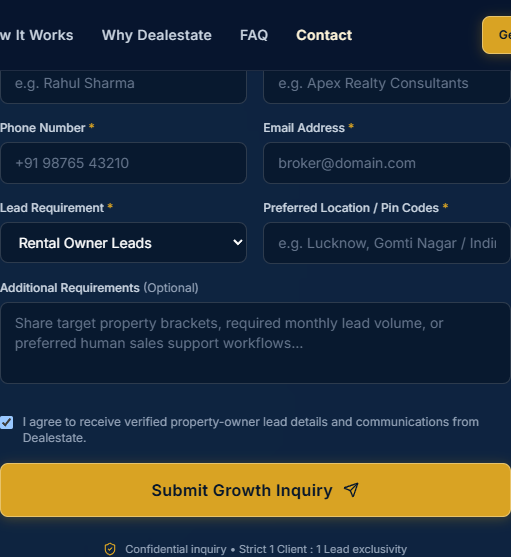
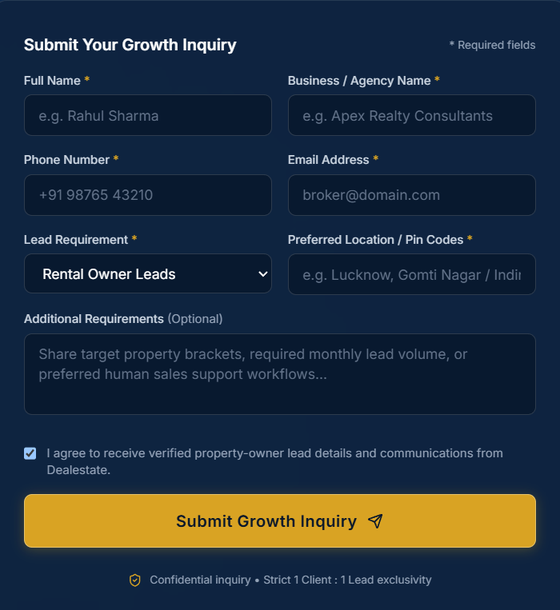
docs: refresh README with current website screenshots and content

diff --git a/README.md b/README.md
@@ -17,7 +17,7 @@
 [![Lighthouse SEO](https://img.shields.io/badge/Lighthouse_SEO-100%2F100-success?style=flat-square&logo=googlechrome&logoColor=white)](qa-reports/PRODUCTION_READINESS_REPORT.md)
 [![License](https://img.shields.io/badge/License-Proprietary-red?style=flat-square)](#-license)
 
-[Project Overview](#-project-overview) • [Website Preview](#-website-preview) • [Complete Screenshots](#-complete-website-screenshots) • [Responsive Showcase](#-responsive-design-showcase) • [Architecture](#-project-architecture) • [Getting Started](#-installation--setup) • [Contact](#-official-contact--business-details)
+[Project Overview](#-project-overview) • [Desktop Preview](#-desktop-preview) • [Mobile Preview](#-mobile-preview) • [Section Screenshots](#-complete-website-screenshots) • [Responsive Showcase](#-responsive-showcase) • [Interactions](#-interactive-states) • [Architecture](#-project-architecture) • [Getting Started](#-installation--setup) • [Contact](#-official-contact--business-details)
 
 </div>
 
@@ -25,134 +25,206 @@
 
 ## 📖 Project Overview
 
-**Dealestate** is a premium, technology-enabled real estate growth system engineered for Indian property brokers, independent consultants, and multi-agent agencies. Operating under the umbrella of **Codnexa**, Dealestate solves the fundamental failure of conventional property portals: noise, duplicate broker listings, lack of human follow-up, and shared leads auctioned to multiple competitors at once.
+**Dealestate** is an enterprise-grade real estate growth system engineered specifically for Indian property brokers, independent real-estate consultants, and multi-agent commercial firms. Operating under the umbrella of **Codnexa**, Dealestate eliminates the chronic pitfalls of traditional property portals: noise, duplicate broker spam, lack of follow-up bandwidth, and shared leads auctioned to 10+ brokers simultaneously.
 
-### Core Value Proposition
+### The Problem in Indian Real Estate
+Traditional portals operate on a volume-first listing aggregation model. Brokers spend high monthly subscription fees only to receive recycled leads that have already been telephoned by dozens of competing agencies, resulting in hostile property owners, burned relationships, and wasted operational hours.
 
-Unlike generic lead generation platforms that sell raw portal scrapes to 10+ brokers simultaneously, Dealestate combines **algorithmic AI screening** with a **dedicated human operations layer**:
+### The Dealestate Solution
+Dealestate pairs **algorithmic AI screening** with a **dedicated human operations layer**:
 
-1. **Strict 1 Client : 1 Lead Exclusivity**: Leads are locked strictly to a single broker within their target micro-market and pin codes. Zero shared leads.
-2. **Dedicated Human Sales Specialist Layer**: Trained real estate callers telephone prospective property owners directly to verify intent, confirm listing parameters, and qualify motivation before dispatch.
-3. **AI-Assisted Listing Screening**: Machine-learning heuristics detect duplicate phone numbers, suppress broker reposts, and cross-reference public property feeds in real time.
-4. **Multi-Stream Focus**: High-intent property-owner opportunities across **Residential Rental**, **Residential Resale**, and **Commercial** sectors.
+1. **Strict 1 Client : 1 Lead Exclusivity**: Every verified property-owner lead is allocated strictly to a single broker within their target pin code or micro-market. Zero shared leads.
+2. **Dedicated Human Sales Specialist Layer**: Trained real estate tele-calling specialists directly contact property owners to verify ownership documentation, confirm commercial parameters, qualify seller motivation, and secure scheduled visit slots.
+3. **AI-Assisted Listing Screening**: Automated heuristics parse public listings, eliminate duplicate contact numbers, detect broker reposts, and cross-reference tax and municipal databases in real time.
+4. **Three Dedicated Owner Categories**: High-intent property-owner acquisition channels across **Residential Rental**, **Residential Resale**, and **Commercial Property** sectors.
 
 ---
 
-## 🖥 Website Preview
+## 🖥 Desktop Preview
 
 ![Dealestate Desktop Homepage](docs/screenshots/desktop/homepage.png)
 
-*The Dealestate homepage featuring the luminous Mumbai sunset skyline, strategic value proposition, and the interactive Lead Allocation & Screening Desk mockup.*
+*The complete Dealestate desktop homepage featuring the luminous Mumbai skyline hero, single-line Commercial Owner badge, interactive Lead Allocation & Screening Desk, and high-contrast design system.*
+
+---
+
+## 📱 Mobile Preview
+
+<div align="center">
+  <img src="docs/screenshots/mobile/homepage.png" alt="Dealestate Mobile Homepage" width="390" />
+</div>
+
+*Full mobile experience (390px viewport) verified with zero horizontal overflow, fluid responsive typography, and mobile-first touch ergonomics.*
 
 ---
 
 ## 📸 Complete Website Screenshots
 
-The repository contains real, browser-rendered screenshots for all 13 production sections of the Dealestate website:
+Every screenshot below is freshly captured from the live rendered website at standard desktop viewport (`1440 × 900`):
 
-### 1. Sticky Navigation Bar & Header
-![Sticky Navigation Bar](docs/screenshots/desktop/navbar.png)
-*Sticky header with a `#07152E` backdrop-blur finish, official Dealestate WebP logo, active section highlighting, and primary CTA.*
+### 1. Sticky Navigation Header
+![Sticky Navigation Header](docs/screenshots/desktop/navbar.png)
+*High-contrast header with `#08172B` backdrop blur, crisp vector logo, active section tracking, and primary lead allocation CTA.*
 
 ### 2. Homepage Hero Section
-![Homepage Hero Section](docs/screenshots/desktop/homepage.png)
-*High-contrast hero section with responsive Mumbai skyline background, brand positioning, and one-click lead inquiry actions.*
+![Homepage Hero Section](docs/screenshots/desktop/hero.png)
+*Hero section with Mumbai skyline photography, strategic value proposition, primary action buttons, and live pipeline status.*
 
-### 3. Lead Allocation & Screening Desk Mockup
+### 3. Lead Allocation & Screening Desk
 ![Lead Allocation & Screening Desk](docs/screenshots/desktop/lead-allocation-desk.png)
-*Static UI simulation showing verified Rental, Resale, and Commercial lead cards with 1:1 exclusivity pills and real-time verification tags.*
+*High-contrast operational desk preview highlighting live pipeline verification, Rental Owner, Resale Owner, and single-line Commercial Owner badges with 1:1 exclusivity pills.*
 
 ### 4. Verified Owner Leads Section
 ![Verified Owner Leads Section](docs/screenshots/desktop/owner-leads.png)
-*Three distinct category cards detailing Rental, Resale, and Commercial owner acquisition criteria on a warm ivory surface.*
+*Three comprehensive acquisition tiers: Residential Rental, Residential Resale, and Commercial Owner leads on a warm ivory surface.*
 
 ### 5. Dedicated Human Sales Support Section
 ![Dedicated Human Sales Support Section](docs/screenshots/desktop/human-support.png)
-*Deep navy high-impact section showcasing Dealestate's core differentiator: trained human callers managing qualification and scheduling.*
+*Deep navy high-impact section showcasing Dealestate's core differentiator: trained tele-calling professionals who handle qualifying calls and site-visit scheduling.*
 
-### 6. Complete Growth Solutions Section
-![Complete Growth Solutions Section](docs/screenshots/desktop/solutions.png)
-*Seven specialized business solutions featuring a harmonized color rhythm: Warm Ivory hero card, Deep Navy differentiator card, and Soft Blue CRM.*
+### 6. Growth Solutions Section
+![Growth Solutions Section](docs/screenshots/desktop/solutions.png)
+*Seven specialized business solutions featuring a balanced color rhythm across Warm Ivory, Deep Navy, and Soft Blue surfaces with antique gold accents.*
 
-### 7. How It Works (7-Stage Process Pipeline) Section
+### 7. How It Works (7-Stage Workflow Pipeline)
 ![How It Works Section](docs/screenshots/desktop/how-it-works.png)
-*Continuous 7-stage workflow (`Source ➔ Filter ➔ Screen ➔ Review ➔ Allocate ➔ Deliver ➔ Track`) with dedicated pipeline track and stage indicators.*
+*Continuous 7-stage operational workflow (`Source ➔ Filter ➔ Screen ➔ Review ➔ Allocate ➔ Deliver ➔ Track`) with dedicated pipeline track and numbered milestones.*
 
-### 8. Who We Serve (Target Audience) Section
+### 8. Who We Serve (Client Profiles)
 ![Who We Serve Section](docs/screenshots/desktop/who-we-serve.png)
 *Tailored operational models for Independent Luxury Brokers, Multi-Agent Brokerages, and Specialized Commercial Consultants.*
 
-### 9. Why Dealestate (Competitive Advantages) Section
+### 9. Why Dealestate (Market Differentiation)
 ![Why Dealestate Section](docs/screenshots/desktop/why-dealestate.png)
-*Side-by-side contrast between traditional noisy portals and Dealestate's exclusive 1:1 model with human-in-the-loop verification.*
+*Side-by-side comparison between traditional mass portals and Dealestate's exclusive 1:1 model with human-in-the-loop qualification.*
 
-### 10. Frequently Asked Questions (FAQ) Section
+### 10. Frequently Asked Questions (FAQ)
 ![FAQ Section](docs/screenshots/desktop/faq.png)
-*Ten accessible accordion items detailing pricing brackets, exclusivity locks, geographic rollouts, and replacement guidelines.*
+*Ten fully accessible accordion questions detailing pricing brackets, exclusivity locks, geographic rollouts, and replacement guidelines.*
 
-### 11. Contact & Locality Allocation Section
+### 11. Contact & Locality Allocation Hub
 ![Contact Section](docs/screenshots/desktop/contact.png)
-*Direct communication hub displaying official phone, WhatsApp, email, operating hours, and verified social channels.*
+*Direct communication hub displaying direct phone, WhatsApp channel, email desk, operating hours, and verified social channels.*
 
 ### 12. Growth Inquiry Form
 ![Growth Inquiry Form](docs/screenshots/desktop/contact-form.png)
-*Live lead booking form with client-side validation, loading indicators, FormSubmit endpoint integration, and instant WhatsApp/phone fallback.*
+*Live lead reservation form with real-time validation, FormSubmit AJAX endpoint, loading indicators, and fallback action pills.*
 
 ### 13. Site Footer
 ![Site Footer](docs/screenshots/desktop/footer.png)
-*Comprehensive footer with Codnexa attribution, navigation sitemap links, legal copyright notices, and back-to-top trigger.*
+*Footer with Codnexa attribution, sitemap navigation links, legal copyright notices, and back-to-top trigger.*
 
 ---
 
-## 📱 Responsive Design Showcase
+## 💻 Laptop Showcase (1280px)
 
-The Dealestate website was tested across **14 distinct viewport resolutions** and verified to have **0px horizontal overflow** at all screen sizes.
+Captured at standard laptop viewport (`1280 × 800`):
 
-### Viewport Comparison
+| Homepage | Hero Section |
+|:---:|:---:|
+| ![Laptop Homepage](docs/screenshots/laptop/homepage.png) | ![Laptop Hero](docs/screenshots/laptop/hero.png) |
+| *Full laptop viewport rendering* | *Luminous Mumbai skyline and CTAs* |
 
-| Resolution | Device Class | Full Page Preview |
+| Solutions Grid | How It Works Pipeline | Contact Section |
 |:---:|:---:|:---:|
-| **1440 × 900** | Desktop Standard | [View Desktop Full Screenshot](docs/screenshots/responsive/desktop-1440.png) |
-| **1280 × 800** | Laptop Standard | [View Laptop Full Screenshot](docs/screenshots/responsive/laptop-1280.png) |
-| **768 × 1024** | Tablet Portrait | [View Tablet Full Screenshot](docs/screenshots/responsive/tablet-768.png) |
-| **390 × 844** | Mobile Standard (iPhone) | [View Mobile Full Screenshot](docs/screenshots/responsive/mobile-390.png) |
-| **360 × 800** | Mobile Compact (Android) | [View Mobile Compact Screenshot](docs/screenshots/responsive/mobile-360.png) |
+| ![Laptop Solutions](docs/screenshots/laptop/solutions.png) | ![Laptop How It Works](docs/screenshots/laptop/how-it-works.png) | ![Laptop Contact](docs/screenshots/laptop/contact.png) |
+| *Multi-column card layout* | *7-stage operational workflow* | *Lead allocation desk form* |
 
-### Mobile-Optimized User Experience
+---
 
-| Mobile Navigation Drawer | Mobile Owner Leads | Mobile How It Works |
+## 📱 Tablet Showcase (768px)
+
+Captured at standard tablet portrait viewport (`768 × 1024`):
+
+| Tablet Navigation State | Tablet Hero Section | Tablet Owner Leads |
 |:---:|:---:|:---:|
-| ![Mobile Navigation](docs/screenshots/mobile/navigation.png) | ![Mobile Leads](docs/screenshots/mobile/owner-leads.png) | ![Mobile Process](docs/screenshots/mobile/how-it-works.png) |
-| *Slide-over menu with touch targets $\ge 44\text{px}$* | *Fluid stacked cards optimized for vertical scroll* | *Streamlined 7-stage vertical process rail* |
+| ![Tablet Navigation](docs/screenshots/tablet/navigation.png) | ![Tablet Hero](docs/screenshots/tablet/hero.png) | ![Tablet Owner Leads](docs/screenshots/tablet/owner-leads.png) |
+| *Slide-out menu with high contrast* | *Centered headline and pipeline desk* | *Vertically stacked category cards* |
 
-| Mobile Solutions Grid | Mobile Contact & Form | Mobile Footer |
+| Tablet Solutions | Tablet How It Works | Tablet Contact Form |
 |:---:|:---:|:---:|
-| ![Mobile Solutions](docs/screenshots/mobile/solutions.png) | ![Mobile Contact](docs/screenshots/mobile/contact.png) | ![Mobile Footer](docs/screenshots/mobile/footer.png) |
-| *Adaptive single-column cards with gold accents* | *Full-width inputs with high-contrast text* | *Stacked legal and navigation links* |
+| ![Tablet Solutions](docs/screenshots/tablet/solutions.png) | ![Tablet How It Works](docs/screenshots/tablet/how-it-works.png) | ![Tablet Contact Form](docs/screenshots/tablet/contact-form.png) |
+| *Two-column adaptive cards* | *Sequential 7-stage workflow rail* | *Full-width inquiry reservation card* |
 
-### Interactive States
+---
 
-| FAQ Accordion Expanded | Mobile Drawer Open | Validation Error States |
+## 📲 Mobile Showcase (390px, 375px, 360px)
+
+The mobile experience was rigorously tested across common Indian smartphone widths. All touch targets meet or exceed $\ge 44\text{px}$, with zero horizontal overflow:
+
+### Mobile Navigation Drawer (Contrast Verified)
+
+| Mobile Sidebar CLOSED | Mobile Sidebar OPEN |
+|:---:|:---:|
+| ![Mobile Sidebar Closed](docs/screenshots/mobile/sidebar-closed.png) | ![Mobile Sidebar Open](docs/screenshots/mobile/sidebar-open.png) |
+| *Clean navbar with hamburger toggle* | *Deep Navy `#08172B` surface, Warm Ivory text, and Gold indicators* |
+
+> [!NOTE]
+> **Mobile Sidebar Contrast Enhancement**: The mobile slide-over navigation drawer utilizes high-contrast `#F7F3EA` typography, `#D9A323` indicator chevrons, and a high-visibility close button, ensuring perfect readability in both outdoor and low-light environments.
+
+### Core Mobile Sections
+
+| Mobile Hero & Desk | Mobile Owner Leads | Mobile Human Support |
 |:---:|:---:|:---:|
-| ![FAQ Expanded](docs/screenshots/interactions/faq-open.png) | ![Menu Open](docs/screenshots/interactions/mobile-menu-open.png) | ![Form Validation](docs/screenshots/interactions/form-validation.png) |
-| *Smooth CSS transition with `aria-expanded` toggle* | *Full backdrop blur with trap-focus behavior* | *Real-time inline errors on missing fields* |
+| ![Mobile Hero](docs/screenshots/mobile/hero.png) | ![Mobile Owner Leads](docs/screenshots/mobile/owner-leads.png) | ![Mobile Human Support](docs/screenshots/mobile/human-support.png) |
+| *Compact headline & live desk* | *Single-column acquisition cards* | *Differentiator showcase* |
+
+| Mobile Solutions | Mobile How It Works | Mobile Who We Serve |
+|:---:|:---:|:---:|
+| ![Mobile Solutions](docs/screenshots/mobile/solutions.png) | ![Mobile How It Works](docs/screenshots/mobile/how-it-works.png) | ![Mobile Who We Serve](docs/screenshots/mobile/who-we-serve.png) |
+| *Harmonized ivory & blue cards* | *Vertical 7-stage process timeline* | *Client profile tiers* |
+
+| Mobile Why Dealestate | Mobile FAQ | Mobile Contact Form |
+|:---:|:---:|:---:|
+| ![Mobile Why Dealestate](docs/screenshots/mobile/why-dealestate.png) | ![Mobile FAQ](docs/screenshots/mobile/faq.png) | ![Mobile Contact Form](docs/screenshots/mobile/contact-form.png) |
+| *Portal comparison metrics* | *Tap-to-expand accordions* | *Native-feeling touch fields* |
+
+### Mobile Viewport Validation
+
+| iPhone SE / Standard (375px) | Compact Android (360px) |
+|:---:|:---:|
+| ![Mobile 375px](docs/screenshots/mobile/mobile-375px.png) | ![Mobile 360px](docs/screenshots/mobile/mobile-360.png) |
+| *Perfect responsive wrapping at 375px* | *Zero horizontal scroll at 360px* |
+
+---
+
+## 🎯 Interactive States
+
+Every interactive state is verified directly in the running browser:
+
+| FAQ Accordion Expanded | Form Validation Errors | Verified Form Submission |
+|:---:|:---:|:---:|
+| ![FAQ Expanded](docs/screenshots/interactions/faq-expanded.png) | ![Form Validation](docs/screenshots/interactions/form-validation.png) | ![Form Success](docs/screenshots/interactions/form-success.png) |
+| *Smooth CSS height transition with `aria-expanded`* | *Real-time inline validation on missing required inputs* | *Live FormSubmit AJAX submission confirmation* |
+
+| Custom Gold Cursor Hover | Mobile Slide-Out Menu |
+|:---:|:---:|
+| ![Custom Cursor](docs/screenshots/interactions/custom-cursor.png) | ![Mobile Menu Open](docs/screenshots/interactions/mobile-menu-open.png) |
+| *Antique-gold custom cursor with scale effect on interactive CTAs* | *Full viewport drawer with keyboard focus trap* |
 
 ---
 
 ## ⚡ Implemented Features
 
-- [x] **Strict 1:1 Exclusivity**: Zero shared leads — opportunities locked exclusively to a single broker account per micro-market.
-- [x] **Human Sales Specialist Layer**: Highlights trained tele-calling professionals who qualify seller intent.
-- [x] **AI-Powered Screening Desk**: Illustrative dashboard preview displaying real-time listing verification.
-- [x] **7-Stage Workflow Pipeline**: Visual step ribbon guiding brokers from initial sourcing to CRM feedback synchronization.
+- [x] **Strict 1:1 Exclusivity Architecture**: Zero shared leads — property-owner records are locked to a single broker account per micro-market and pin code.
+- [x] **Human Sales Specialist Layer**: Highlights trained tele-calling professionals who qualify seller intent, verify property documentation, and schedule meetings.
+- [x] **AI-Powered Screening Desk Mockup**: Illustrative dashboard preview displaying real-time listing verification and live pipeline metrics.
+- [x] **Single-Line Commercial Owner Badge**: Visual consistency across Rental, Resale, and Commercial cards with zero awkward text wrapping.
+- [x] **7-Stage Workflow Pipeline**: Visual milestone rail guiding brokers from initial sourcing to CRM feedback synchronization.
 - [x] **Multi-Category Owner Leads**: Dedicated cards for Rental, Resale, and Commercial acquisition channels.
 - [x] **Interactive FAQ Accordion**: Ten accessible FAQ items with single-expansion keyboard and touch accessibility.
-- [x] **Production Contact Form**:
-  - Client-side validation (Full Name, Business Name, Phone, Email, Location, Terms Consent).
-  - Dynamic loading state (`Submitting Inquiry...`).
-  - Active FormSubmit endpoint (`https://formsubmit.co/ajax/codnexa@gmail.com`).
-  - Fallback telephone (`tel:+916394623162`) and WhatsApp (`wa.me/916394623162`) action pills on error or activation notice.
-- [x] **Responsive Image System**: Picture elements with responsive media queries serving WebP images (`min-width: 768px` for desktop, `max-width: 767px` for mobile).
+- [x] **Antique-Gold Custom Cursor**:
+  - Custom dot and trailing circle styled in antique gold (`#D9A323`).
+  - Active hover scaling on links, buttons, inputs, and textareas.
+  - Automatic touch rejection (`pointerType === "touch"`).
+  - Energy-efficient stationary animation halting when pointer is idle.
+- [x] **Production Contact Form Experience**:
+  - Client-side validation (Full Name, Business Name, Phone, Email, Location, Consent).
+  - FormSubmit AJAX endpoint (`https://formsubmit.co/ajax/codnexa@gmail.com`).
+  - Genuine inline confirmation: *"Your enquiry has been submitted successfully! Our team will get back to you soon."*
+  - Duplicate submission prevention and reset triggers.
+  - Fallback telephone (`tel:+916394623162`) and WhatsApp (`wa.me/916394623162`) direct channels.
+- [x] **Official Brand Favicon**: Dealestate geometric logo symbol rendered on dark navy background across `favicon.ico` and `favicon.png`.
 - [x] **Comprehensive SEO Architecture**: Pre-configured JSON-LD structured data (Organization, WebSite, Service), `robots.txt`, `sitemap.xml`, and `llms.txt`.
 
 ---
@@ -177,23 +249,23 @@ The Dealestate website was tested across **14 distinct viewport resolutions** an
 DealEsate/
 ├── docs/
 │   └── screenshots/              # Real browser-captured screenshots for documentation
-│       ├── desktop/              # 13 section screenshots (1440px desktop)
-│       ├── tablet/               # Tablet homepage and contact views
-│       ├── mobile/               # Mobile views (390px / 360px)
-│       ├── interactions/         # FAQ open, mobile menu, and form validation states
-│       └── responsive/           # Full-page comparison across 5 resolutions
+│       ├── desktop/              # 14 section screenshots (1440px desktop)
+│       ├── laptop/               # 5 laptop screenshots (1280px)
+│       ├── tablet/               # 7 tablet screenshots (768px)
+│       ├── mobile/               # 17 mobile screenshots (390px, 375px, 360px)
+│       └── interactions/         # 7 interactive states (menu, FAQ, validation, success, cursor)
 ├── public/
 │   ├── assets/
 │   │   ├── brand/                # Dealestate official logo assets (WebP, PNG)
-│   │   └── hero/                 # Mumbai skyline hero photography (WebP, JPG)
-│   ├── favicon.ico               # Standard browser favicon
+│   │   └── hero/                 # Mumbai skyline photography (WebP, JPG)
+│   ├── favicon.ico               # Standard browser tab favicon
 │   ├── favicon.png               # High-res PNG favicon
 │   ├── llms.txt                  # LLM crawler summary and context manifest
 │   ├── robots.txt                # Search engine crawler permissions
 │   └── sitemap.xml               # Complete XML sitemap for search engines
 ├── qa-reports/                   # Automated audit telemetry and test reports
 │   ├── audit_data.json           # Raw performance, viewport, and contrast metrics
-│   └── PRODUCTION_READINESS_REPORT.md # 18-phase comprehensive QA audit report
+│   └── PRODUCTION_READINESS_REPORT.md # Comprehensive QA audit report
 ├── src/
 │   ├── app/
 │   │   └── App.tsx               # Main single-page application layout root
@@ -205,6 +277,7 @@ DealEsate/
 │   │   └── ui/
 │   │       ├── Accordion.tsx     # Accessible FAQ collapse/expand component
 │   │       ├── Button.tsx        # Standardized button variants (primary, secondary, outline)
+│   │       ├── CustomCursor.tsx  # Antique-gold custom cursor with touch/idle optimizations
 │   │       ├── SectionContainer.tsx # Max-width wrapper enforcing layout bounds
 │   │       └── SectionHeading.tsx# Section eyebrow, title, and subtitle block
 │   ├── data/                     # Centralized content and business configuration
@@ -220,7 +293,7 @@ DealEsate/
 │   │   ├── useActiveSection.ts   # IntersectionObserver hook for navbar tracking
 │   │   └── useReducedMotion.ts   # Accessibility hook respecting OS animation preferences
 │   ├── lib/
-│   │   └── contact.ts            # FormSubmit & Web3Forms dispatch integration
+│   │   └── contact.ts            # FormSubmit AJAX dispatch integration
 │   ├── sections/
 │   │   ├── Audience/             # Who We Serve section
 │   │   ├── Contact/              # Contact info & Lead inquiry form
@@ -273,7 +346,7 @@ Ensure you have the following installed locally:
    ```
 
 3. **Configure environment variables**:
-   Create a local `.env` file based on the example:
+   Create a local `.env` file based on `.env.example`:
    ```bash
    cp .env.example .env
    ```
@@ -303,20 +376,21 @@ The application uses Vite environment variables prefixed with `VITE_`. All sensi
 | `VITE_WEB3FORMS_ACCESS_KEY` | Optional | *None* | Web3Forms access key if using Web3Forms as the form provider. |
 
 ### Pre-Launch Activation Notice
-> **Important**: When using FormSubmit for the first time, FormSubmit sends an activation email to `codnexa@gmail.com`. The recipient must confirm the activation link to enable inbox delivery. The form includes graceful fallback actions to direct phone and WhatsApp channels at all times.
+> **Important**: When using FormSubmit for the first time on a new domain, FormSubmit sends an activation email to `codnexa@gmail.com`. The recipient must confirm the activation link to enable inbox delivery. The website automatically handles AJAX submissions and presents inline confirmation without full-page redirection.
 
 ---
 
 ## 🎨 Design System & Palette
 
 The visual identity is defined in `src/styles/tokens.css` and strictly adheres to the approved Dealestate color distribution:
-- **65% Dominant Light Surfaces**: Warm Ivory (`#F7F3EA`) and White (`#FFFFFF`).
-- **25% High-Impact Dark Surfaces**: Deep Navy (`#102B4E`) and Dark Navy (`#07152E`).
+- **65% Dominant Light Surfaces**: Warm Ivory (`#F7F3EA`), White (`#FFFFFF`), and Soft Blue (`#EAF1F8`).
+- **25% High-Impact Dark Surfaces**: Deep Navy (`#102B4E`) and Dark Navy (`#08172B`).
 - **10% Accent Highlights & CTAs**: Premium Gold (`#D9A323`).
 
 | Token | Hex Code | Swatch | Recommended Usage |
 |---|:---:|:---:|---|
 | **Deep Navy** | `#102B4E` | `■` | Primary dark surface, navbar, footer, contact section |
+| **Dark Navy** | `#08172B` | `■` | Hero backdrop, lead allocation desk, high-impact surfaces |
 | **Warm Ivory** | `#F7F3EA` | `■` | Dominant light surface, owner leads, why dealestate |
 | **White** | `#FFFFFF` | `■` | Card backgrounds, elevated surfaces |
 | **Premium Gold** | `#D9A323` | `■` | Primary CTAs, active pills, badges, highlights |
@@ -358,7 +432,13 @@ The website was audited using Google Chrome DevTools and Google Lighthouse. Resu
   - Owner Leads, Human Support, 7 Growth Solutions, 7-Stage Process Pipeline, Audience, Why Dealestate, FAQ, and Footer.
 - [x] **Phase 3: Integrations & Production Readiness**
   - FormSubmit AJAX integration, SEO structured data, Open Graph cards, sitemap, robots.txt, and zero-defect QA audit.
-- [ ] **Phase 4: Client Portal & Live Feed (Future Milestone)**
+- [x] **Phase 4: UI/UX Refinements & Brand Identity Alignment**
+  - Solutions section balanced color rhythm (Warm Ivory, Soft Blue, Deep Navy).
+  - Commercial Owner single-line badge formatting.
+  - Dealestate geometric logo browser tab favicon.
+  - Antique-gold custom cursor with touch pointer rejection and stationary RAF halting.
+  - FormSubmit inline confirmation without browser redirect.
+- [ ] **Phase 5: Client Portal & Live Feed (Future Milestone)**
   - Authenticated broker dashboard with real-time WhatsApp webhook delivery and CRM synchronization.
 
 ---
